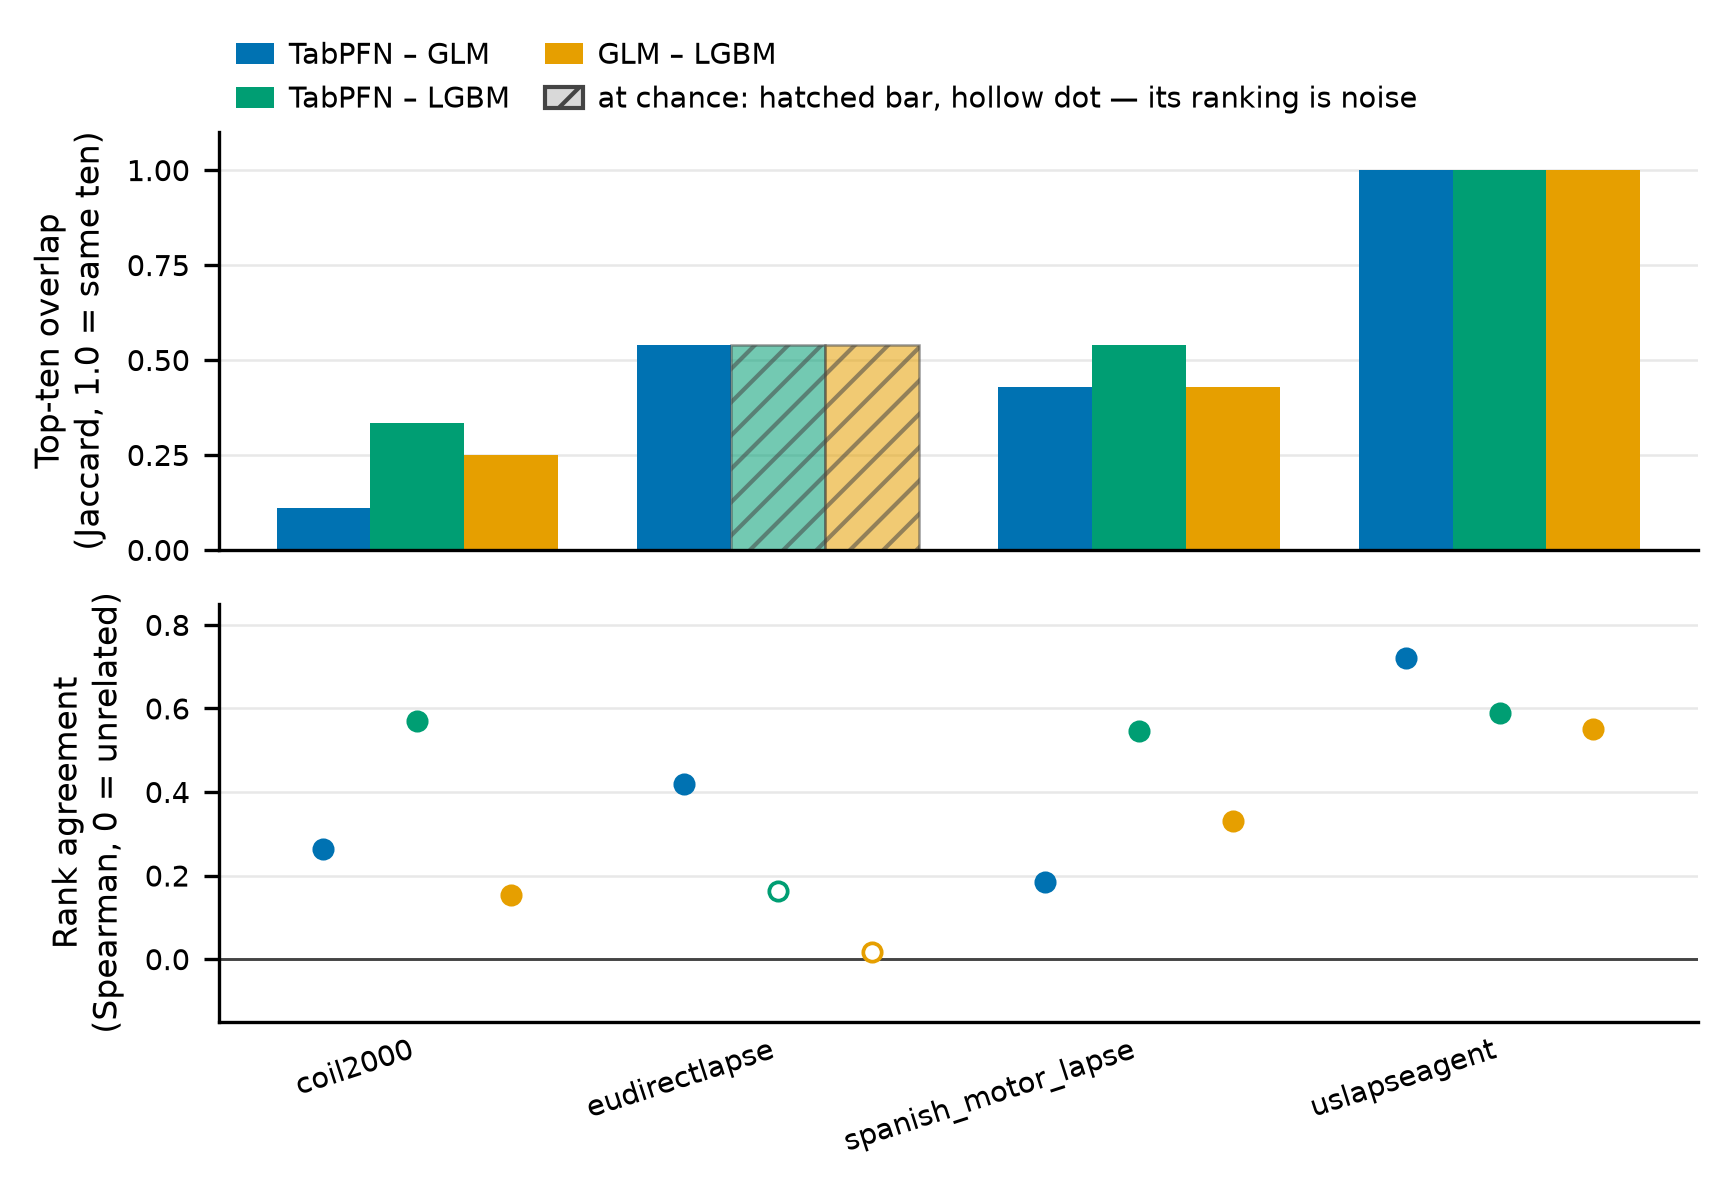
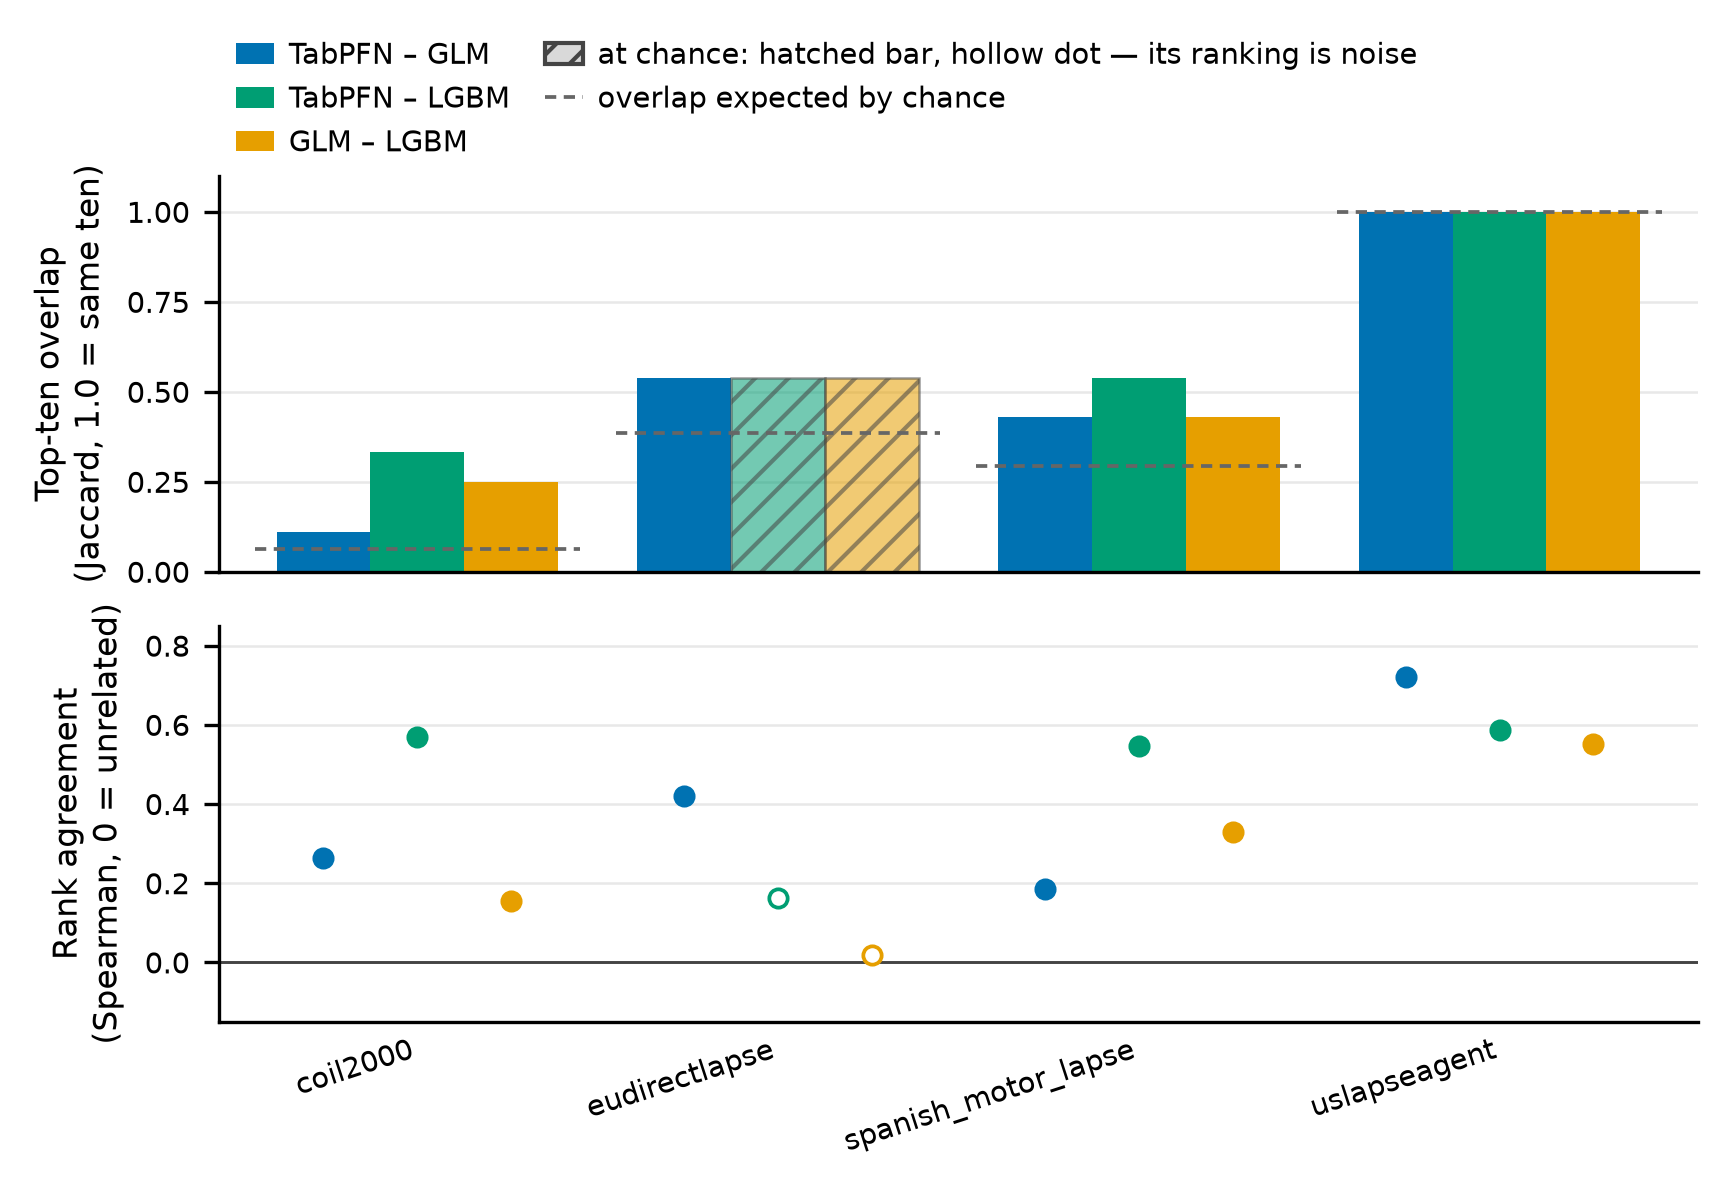
fix: the diagnostics figure shows what overlap to expect (#651)

diff --git a/scripts/infra/diagnostics_figures.py b/scripts/infra/diagnostics_figures.py
@@ -33,6 +33,7 @@ import matplotlib
 matplotlib.use("Agg")
 import matplotlib.pyplot as plt  # noqa: E402  (backend must be chosen before pyplot)
 import pandas as pd  # noqa: E402
+from matplotlib.lines import Line2D  # noqa: E402
 from matplotlib.patches import Patch  # noqa: E402
 
 _REPO = Path(__file__).resolve().parents[2]
@@ -68,6 +69,24 @@ class Agreement:
     overlap: dict[tuple[str, str], float]
     correlation: dict[tuple[str, str], float]
     at_chance: frozenset[str]
+    chance: float
+
+
+def chance_overlap(features: int, top: int = 10) -> float:
+    """Expected Jaccard of two top-ten sets drawn at random from `features` distinct features.
+
+    Two independent k-subsets of an N-set share k^2/N members in expectation, and their union holds
+    2k - k^2/N, so the expected Jaccard is (k^2/N) / (2k - k^2/N). When k == N the top ten is the whole
+    feature set and the expectation is 1.0 — which is why `uslapseagent`'s overlap says nothing (#651).
+    """
+    k = min(top, features)
+    shared = k * k / features
+    return shared / (2 * k - shared)
+
+
+def feature_counts(table: pd.DataFrame) -> dict[str, int]:
+    """Distinct features each dataset ranked — the denominator the chance model needs."""
+    return {dataset: int(group["feature"].nunique()) for dataset, group in table.groupby("dataset")}
 
 
 def load_table() -> pd.DataFrame:
@@ -115,7 +134,8 @@ def agreements() -> list[Agreement]:
             for family in FAMILIES
             if bool(_rows(table, dataset, family)["no_better_than_chance"].iloc[0])
         )
-        out.append(Agreement(dataset, overlap, correlation, chance))
+        counts = feature_counts(table)
+        out.append(Agreement(dataset, overlap, correlation, chance, chance_overlap(counts[dataset])))
     return out
 
 
@@ -130,6 +150,15 @@ def draw(readings: list[Agreement], stem: Path) -> tuple[Path, Path]:
     )
 
     for index, reading in enumerate(readings):
+        top.hlines(
+            reading.chance,
+            index - 0.45,
+            index + 0.45,
+            color=NEUTRAL["muted"],
+            lw=0.9,
+            ls=(0, (3, 2)),
+            zorder=3,
+        )
         for offset, (first, second) in enumerate(PAIRS):
             # Centre the group whatever the number of pairs, so a fourth family cannot skew it.
             x = index + (offset - (len(PAIRS) - 1) / 2) * width
@@ -186,6 +215,16 @@ def draw(readings: list[Agreement], stem: Path) -> tuple[Path, Path]:
             edgecolor=NEUTRAL["ink"],
             hatch="///",
             label="at chance: hatched bar, hollow dot — its ranking is noise",
+        )
+    )
+    handles.append(
+        Line2D(
+            [],
+            [],
+            color=NEUTRAL["muted"],
+            lw=0.9,
+            ls=(0, (3, 2)),
+            label="overlap expected by chance",
         )
     )
     top.legend(

diff --git a/tests/test_diagnostics_figures.py b/tests/test_diagnostics_figures.py
@@ -82,6 +82,33 @@ def test_overlaps_are_jaccard_indices_and_correlations_are_bounded(readings):
             assert -1.0 <= value <= 1.0
 
 
+def test_the_chance_reference_follows_the_feature_count(figures):
+    """Overlap is only interpretable against the number of features there were to overlap on (#651)."""
+    assert figures.chance_overlap(85) == pytest.approx(0.062, abs=0.001)
+    assert figures.chance_overlap(18) == pytest.approx(0.385, abs=0.002)
+    assert figures.chance_overlap(22) == pytest.approx(0.294, abs=0.002)
+    assert figures.chance_overlap(10) == pytest.approx(1.0)
+
+    counts = figures.feature_counts(figures.load_table())
+    assert counts == {
+        "coil2000": 85,
+        "eudirectlapse": 18,
+        "spanish_motor_lapse": 22,
+        "uslapseagent": 10,
+    }
+
+
+def test_the_caption_multiples_hold_against_the_table(figures):
+    """The caption quotes 1.4x and 1.8x; recompute both from the readings and the chance model."""
+    readings = {reading.dataset: reading for reading in figures.agreements()}
+
+    eudi = readings["eudirectlapse"]
+    assert eudi.overlap[("tabpfn", "glm")] / eudi.chance == pytest.approx(1.40, abs=0.05)
+    coil = readings["coil2000"]
+    assert coil.overlap[("tabpfn", "glm")] / coil.chance == pytest.approx(1.79, abs=0.05)
+    assert coil.overlap[("tabpfn", "lgbm")] / coil.chance == pytest.approx(5.37, abs=0.1)
+
+
 def test_the_cli_exports_a_deterministic_pair(tmp_path, figures):
     first, second = tmp_path / "first", tmp_path / "second"
     assert figures.main(["--out", str(first)]) == 0

diff --git a/CHANGELOG.md b/CHANGELOG.md
@@ -6,6 +6,7 @@ The format is based on [Keep a Changelog](https://keepachangelog.com/en/1.1.0/),
 and this project adheres to [Semantic Versioning](https://semver.org/spec/v2.0.0.html).
 
 ## [Unreleased]
+- fix: the diagnostics figure shows what overlap chance alone would give — #651: the agreement panel put a 0.11 and a 0.54 on one axis, but Jaccard depends on how many features there were to overlap on — two random top-tens share 0.06 on `coil2000`'s 85 features and 0.39 on `eudirectlapse`'s 18 — so the same number means different things in different groups. Each group now carries a dashed chance reference computed from its own feature count, `uslapseagent`'s sitting at 1.0 because its top ten is the whole set, and the caption states the multiples: `eudirectlapse`'s 0.54 is 1.4× chance, `coil2000`'s 0.11 is 1.8× and its 0.33 is 5.3×. `tests/test_diagnostics_figures.py` recomputes the chance values, the feature counts and the quoted multiples. $0
 - feat: the deployment question gets its figure — #647: `actuarial_baseline_summary.md` answers "would a pricing team use this instead of its GLM or CatBoost?" in two tables and no picture. `scripts/infra/baseline_figures.py` now draws the verdict as a forest over the committed v5 captures: one row per target at each registered budget — the baselines on the whole fold pool, then capped at the fair test's 10,000 rows — with the 95% interval, the target's floor as a dashed tick, and the decision word. It calls `actuarial_baseline.analyse()`, the function the verdict document uses, for both budget sets, so the figure cannot disagree with the table. Every point is left of zero: at the registered budget CatBoost beats fine-tuned TabPFN on all four targets, and matching rows moves only French frequency, into Inconclusive. `severity_spanish` is drawn once because both arms are the same fit. `tests/test_baseline_figures.py` parses the result document's primary table and asserts the figure reproduces it. $0
 - docs: the re-read's residual gaps, closed in the text — #639: the second cold read (#622) accepted the four caption fixes but named three places where a reader still had to assemble the point. The adoption section's counts now say what sets they are over — 14 tasks is the 12 frontier datasets plus the two lapse studies, the 6 wins are the five frontier bests plus Spanish lapse, and the 7 on the frontier are those five plus the two fold-noise ties — so 6, 7 and 5 stop looking like contradictions. The matrix caption names the outlined column as TabPFN's. The D2 caption now concludes that `coil2000`'s two models "are not describing the same relationship" rather than leaving "two of eighteen" to the reader, and says the interaction reading needs a run whose LGBM arm is not at chance instead of calling its absence a caption choice. Prose only; no number and no figure changes. $0
 - fix: the evidence index stops repeating the ratio claim §1 retracted — #638: the second cold read (#622) found `regime_characterization.md` holding two positions: §1 carries the 2026-11-13 note that corrects "ratio ≥1.03" to the measured 1.003–1.502, and §5's evidence index, nine lines below, still told a reader to expect ≥1.03. The entry now states the measured range and points at §1's correction; `grep -n "1.03"` returns only the dated note that quotes the retracted wording. $0

diff --git a/docs/plans/README.md b/docs/plans/README.md
@@ -4,7 +4,7 @@ One file per task: `docs/plans/<task>.md`. Write it **before** non-trivial work,
 change. A plan outranks a fresh ticket — check this directory before speccing or building, because the ticket
 you are about to write may already be covered.
 
-**This index is the only map.** Of the 79 plans, 61 are linked from no other document and only
+**This index is the only map.** Of the 80 plans, 62 are linked from no other document and only
 18 are even mentioned anywhere else.
 
 Each row carries the plan's own first heading, so the index cannot drift from the file it points at. The
@@ -17,7 +17,7 @@ since merged, and the pull request that merged it is the record of what happened
 the fact: a plan that says proposed stays that way unless its author amends it, because rewriting the status
 of a plan after the data would make the trail say something it did not.
 
-## Current, agreed or implemented — 69 plans
+## Current, agreed or implemented — 70 plans
 
 Newest first, by ticket number where the filename carries one.
 
@@ -62,6 +62,7 @@ Newest first, by ticket number where the filename carries one.
 | [`truth-hash-verification.md`](truth-hash-verification.md) | the rescore verifies both hashes it was given |
 | [`vast-log-dir.md`](vast-log-dir.md) | a mock launch's log goes beside its records (#280) |
 | [`verification-gate.md`](verification-gate.md) | verification gate, slice 1: the local command |
+| [`651-diagnostics-chance.md`](651-diagnostics-chance.md) | the diagnostics figure shows what overlap to expect (#651) |
 | [`647-baseline-forest.md`](647-baseline-forest.md) | the actuarial baseline verdict as a forest (#647) |
 | [`618-621-caption-clarity.md`](618-621-caption-clarity.md) | the cold-read caption fixes, prose only (#618–#621) |
 | [`611-figure-boilerplate.md`](611-figure-boilerplate.md) | one CLI and one test loader for the figure scripts (#611) |

diff --git a/docs/plans/651-diagnostics-chance.md b/docs/plans/651-diagnostics-chance.md
@@ -1,0 +1,34 @@
+# Plan — the diagnostics figure shows what overlap to expect
+
+**Status:** Current — implemented with this change, 2026-11-16.
+**Origin:** #651, from the figure-honesty audit.
+**Design:** a chance model computed from each dataset's feature count, drawn as a dashed reference in
+the overlap panel, with the caption quoting the multiples.
+
+## Scope
+
+1. `chance_overlap(features)` in the diagnostics module: the expected Jaccard of two random top-ten
+   sets, `(k²/N) / (2k − k²/N)`, which is 1.0 when the dataset has only ten features.
+2. A dashed line per dataset group in the overlap panel, plus a legend entry.
+3. A caption sentence naming the two ends of the range and the multiples: `eudirectlapse` 0.54 is
+   1.4× chance, `coil2000` 0.11 is 1.8× and 0.33 is 5.3×.
+4. Tests pinning the chance values, the feature counts, and the caption's multiples.
+
+## Decisions worth arguing with
+
+**A chance line, not a second bar.** A bar per pair would double the ink and read as another result;
+a dashed reference is a scale, and scales belong as lines.
+
+**The model is computed, not tabulated.** A hard-coded expectation table would drift the moment a
+dataset's feature set changed; the number comes from the same table the bars do.
+
+**The caption keeps the `uslapseagent` artefact.** Its chance value is 1.0, so the line sits on the
+top of the axis — which is the honest picture of "the top ten is the whole set".
+
+## Verification
+
+```sh
+.venv/bin/python scripts/infra/diagnostics_figures.py
+.venv/bin/python -m pytest tests/test_diagnostics_figures.py -q
+PATH="$PWD/.venv/bin:$PATH" ./scripts/check.sh
+```

diff --git a/docs/analyses/data/README.md b/docs/analyses/data/README.md
@@ -164,10 +164,12 @@ not at chance. A hatched bar and a hollow dot mark a family whose own `test_auc`
 its ranking is noise rather than signal; `eudirectlapse`'s LGBM arm at 0.494 is the case that
 matters. `uslapseagent` records only **ten** features, so its top ten is the whole feature set and
 its overlap of 1.00 is an artefact of that width — the rank correlation (0.55–0.72) is the reading
-that means something there. Elsewhere the overlap is a real selection: `coil2000`'s TabPFN and GLM
-share only two of eighteen features, so on that dataset the two models are not describing the same
-relationship. Regenerate with `.venv/bin/python scripts/infra/diagnostics_figures.py`; vector PDF
-beside the PNG.
+that means something there. The dashed line in each group is the overlap two top-tens would share
+**by chance**, which depends on how many features exist: 0.06 with 85 features, 0.39 with 18.
+Against it, `eudirectlapse`'s 0.54 is only 1.4× chance while `coil2000`'s 0.11 is 1.8× and its 0.33
+is 5.3×. Elsewhere the overlap is a real selection: `coil2000`'s TabPFN and GLM share only two of
+eighteen features, so on that dataset the two models are not describing the same relationship.
+Regenerate with `.venv/bin/python scripts/infra/diagnostics_figures.py`; vector PDF beside the PNG.
 
 **What the figure is not.** Importance is a shuffle-drop ROC AUC on the 2,000-row subsample
 (1,500 train / 500 test), so it approximates the full table rather than measuring it; and the TabPFN

diff --git a/docs/figures/README.md b/docs/figures/README.md
@@ -35,7 +35,7 @@ Drawn by `scripts/infra/adoption_figures.py`, asserted against the frontier CSVs
 
 | Figure | The claim it carries | Evidence | Regenerate |
 | --- | --- | --- | --- |
-| [`diagnostics_feature_agreement.pdf`](diagnostics_feature_agreement.pdf) · [`.png`](diagnostics_feature_agreement.png) | How far the three model families agree on which features matter, per dataset | `docs/analyses/data/d2_importance.csv` (exported, hash-checked) | `.venv/bin/python scripts/infra/diagnostics_figures.py` |
+| [`diagnostics_feature_agreement.pdf`](diagnostics_feature_agreement.pdf) · [`.png`](diagnostics_feature_agreement.png) | How far the three model families agree on which features matter, per dataset, measured against the overlap chance alone would give | `docs/analyses/data/d2_importance.csv` (exported, hash-checked) | `.venv/bin/python scripts/infra/diagnostics_figures.py` |
 
 The hollow-dot and hatched-bar convention means something different here: a family whose own test AUC
 is at chance, so its ranking is noise rather than a quotation. `uslapseagent` records only ten
